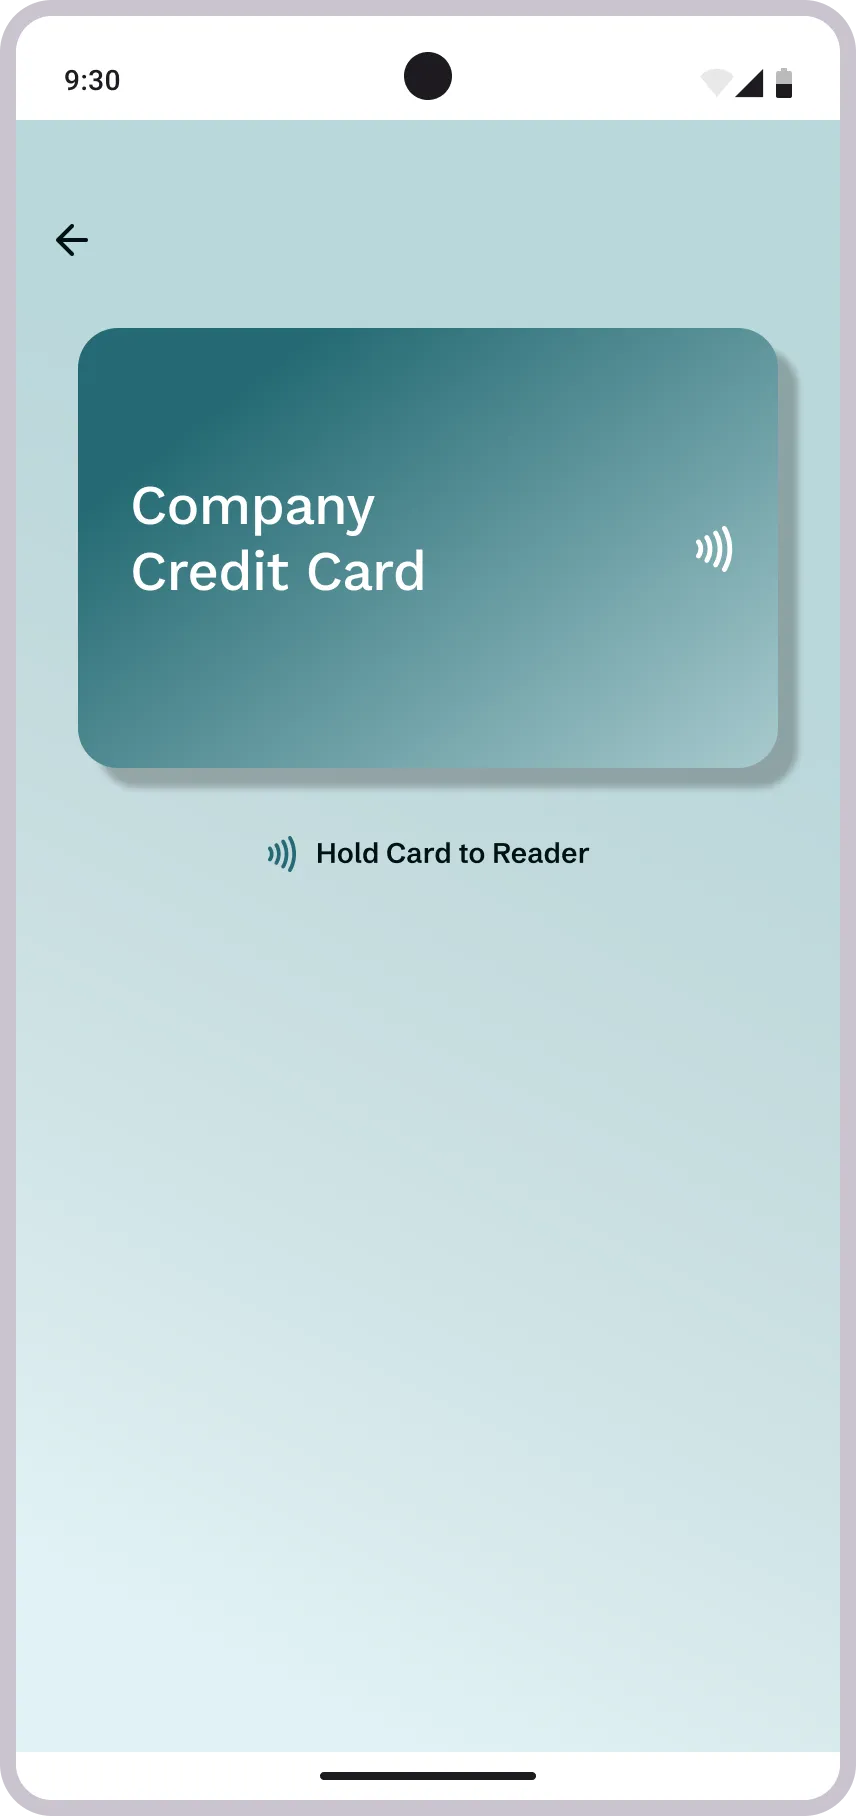
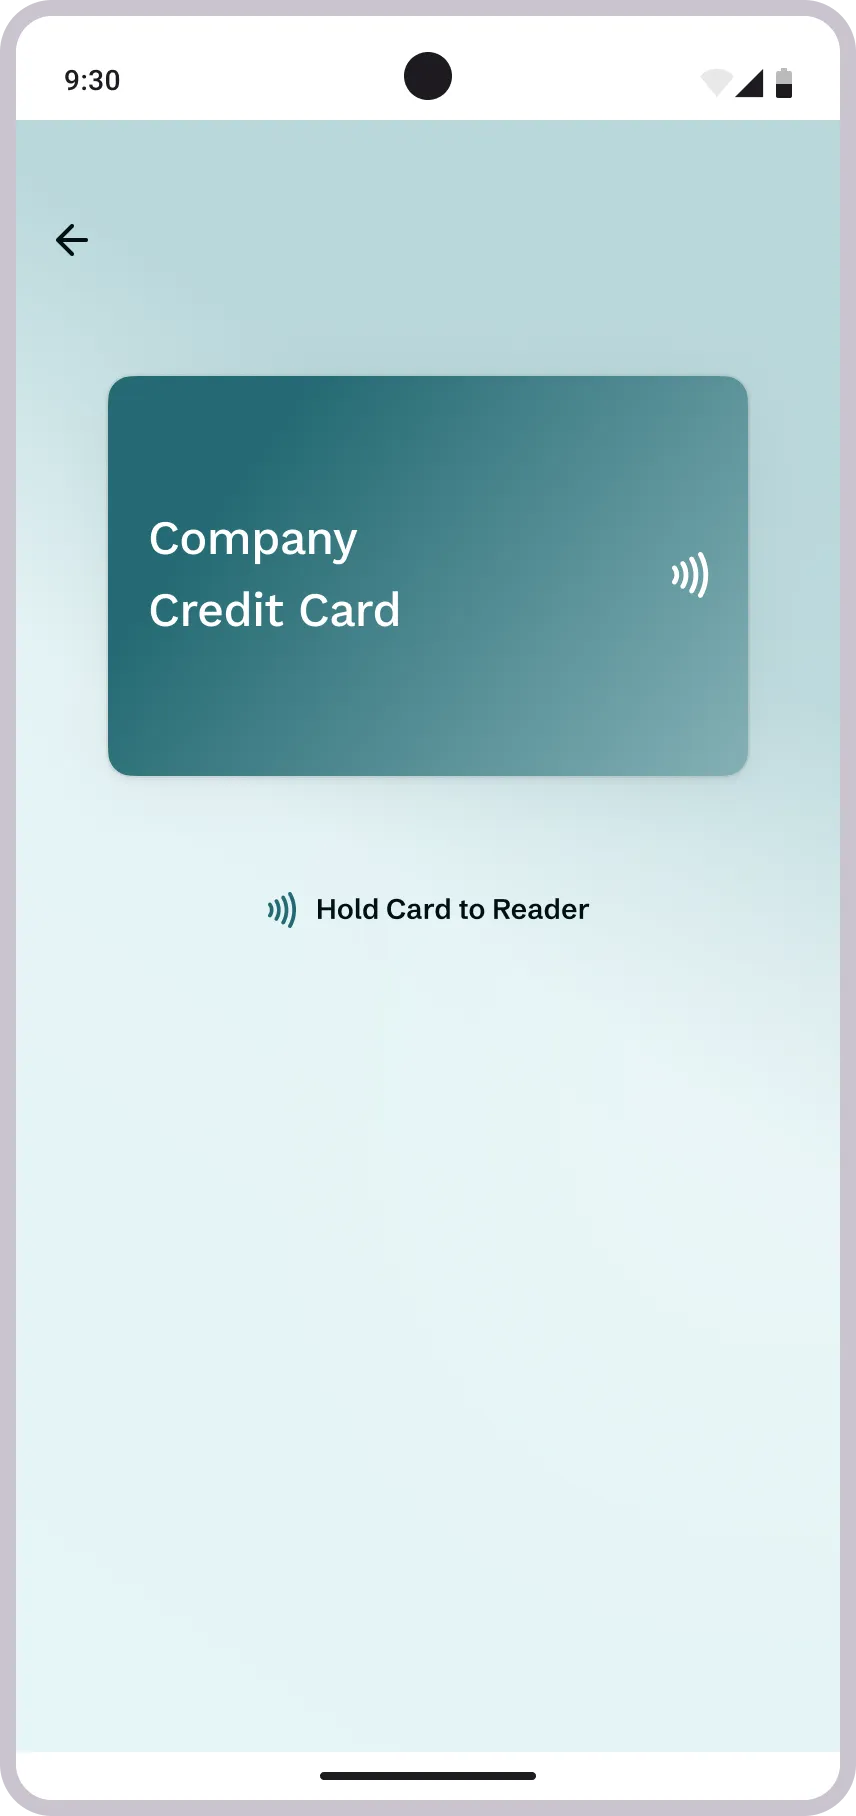
patch 2.043

diff --git a/addons/header.html b/addons/header.html
@@ -13,9 +13,8 @@
 <li class="nav-item dropdown" tabindex="0">
   <a href="#" class="dropdown-toggle" data-toggle="dropdown">Web</a>
   <ul class="dropdown-menu">
-    <li><a href="/pages/casestudies/eceHome.html" target="_blank" style="color: var(--black);">ECE Homepage Redesign</a></li>
-    <li><a href="/pages/casestudies/filmPitchSite.html" target="_blank" style="color: var(--black);">Pitch Deck Website for Film</a></li>
-    <li><a href="/pages/articles/HDFCUI.html" target="_blank" style="color: var(--black);">UI Re-Designs: HDFC Bank</a></li>
+    <li><a href="/pages/casestudies/eceHome.html" target="_blank" style="color: var(--black);">ECE Homepage Redesign: ECE at UofT</a></li>
+    <li><a href="/pages/casestudies/filmPitchSite.html" target="_blank" style="color: var(--black);">Pitch Deck Website for Film Fundraising</a></li>
     <li><a href="/casestudies.html" target="_blank" style="color: var(--black); font-weight: bold;">View All Case Studies</a></li>
   </ul>
 </li>
@@ -32,8 +31,8 @@
 <li class="nav-item dropdown" tabindex="0">
   <a href="#" class="dropdown-toggle" data-toggle="dropdown">UX Research & Strategy</a>
   <ul class="dropdown-menu">
-    <li><a href="/pages/casestudies/previz.html" target="_blank" style="color: var(--black);">Gen-AI Service Blueprint</a></li>
-    <li><a href="/pages/casestudies/tmc.html" target="_blank" style="color: var(--black);">IA and Navigation Menu Redesign</a></li>
+    <li><a href="/pages/casestudies/previz.html" target="_blank" style="color: var(--black);">Gen-AI Service Blueprint for Pre-Visualization</a></li>
+    <li><a href="/pages/casestudies/tmc.html" target="_blank" style="color: var(--black);">IA Redesign & Implementation Strategy</a></li>
     <li><a href="/casestudies.html" target="_blank" style="color: var(--black); font-weight: bold;">View All Case Studies</a></li>
   </ul>
 </li>
@@ -41,10 +40,7 @@
 <li class="nav-item dropdown" tabindex="0">
   <a href="#" class="dropdown-toggle" data-toggle="dropdown">Design Thinking</a>
   <ul class="dropdown-menu">
-    <li><a href="/pages/articles/web-production.html" target="_blank" style="color: var(--black); font-weight: bold;">Web Production Design: ECE at UofT</a></li>
-    <li><a href="https://docs.google.com/presentation/d/1ek_vuxMGPd8APFHL_mc-dGsidAcXrejG7NOf08lDBwg/edit?usp=sharing" target="_blank" style="color: var(--tertiary-dark); font-weight: bold;">Website Digitization Critique [PPT] ⤴</a></li>
-    <li><a href="https://docs.google.com/presentation/d/1BCiNCv1VYiqp4zUU1gO3Ho47gvxvy3OIzPgxQ1KKXHU/edit?usp=sharing" target="_blank" style="color: var(--tertiary-dark); font-weight: bold;">Design Guidelines: Canadian Recycling System [PPT] ⤴</a></li>
-    <li><a href="https://docs.google.com/presentation/d/17aFWzBesqtXghZFxJG1Y6ivm9Ix29yD3OXbv9aCEEd4/edit?usp=sharing" target="_blank" style="color: var(--tertiary-dark); font-weight: bold;">Conversational UX Design for Healthcare AI [PPT] ⤴</a></li>
+    <li><a href="/pages/articles/web-production.html" target="_blank" style="color: var(--black);">Web Production Design: ECE at UofT</a></li>
     <li><a href="https://www.linkedin.com/newsletters/7393569508403294208/" target="_blank" style="color: var(--tertiary-dark); font-weight: bold;">View Newsletter on LinkedIn ⤴</a></li>
   </ul>
 </li>

diff --git a/pages/casestudies/tmc.html b/pages/casestudies/tmc.html
@@ -28,7 +28,7 @@
     
     <!-- Title -->
     <h1 class="post-title">
-      IA and Navigation Menu Redesign
+      Information Architecture Redesign & Implementation Strategy
     </h1>
 
     <h3 style="color: var(--tertiary-dark); margin-top: 0rem; margin-bottom: 20px;">

diff --git a/pages/casestudies/mobileUXR.html b/pages/casestudies/mobileUXR.html
@@ -54,7 +54,7 @@
       Mobile App for Ticket Deals
     </h1>
 
-    <h3 class="post-subtitle">End-to-end Product design</h3>
+    <h3 class="post-subtitle">Product Research & Design</h3>
 
     <div class="post-meta">
   <span class="post-meta-image">

diff --git a/pages/casestudies/previz.html b/pages/casestudies/previz.html
@@ -22,7 +22,7 @@
 
     <!-- Title -->
     <h1 class="post-title">
-      Gen-AI Service Blueprint for Film Pre-Production
+      Gen-AI Service Blueprint for Film Pre-Visualization
     </h1>
 
     <h3 class="post-subtitle">

diff --git a/pages/casestudies/filmPitchSite.html b/pages/casestudies/filmPitchSite.html
@@ -21,7 +21,7 @@
     
     <!-- Title -->
     <h1 class="post-title">
-      Pitch Deck Website for Film Pre-Production
+      Pitch Deck Website for Film Fundraising
     </h1>
 
 <div class="post-meta">
